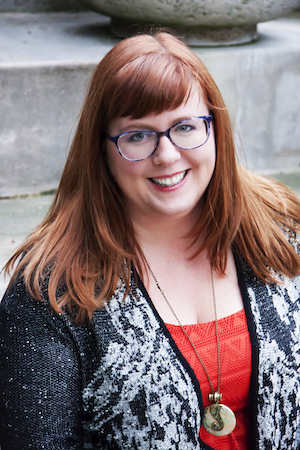
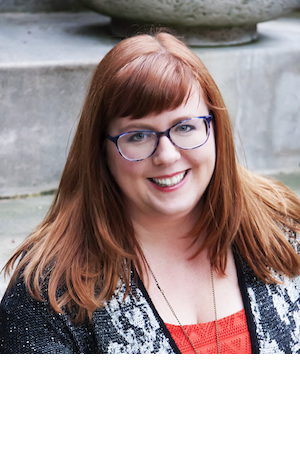
adjusted some styling features on index pages.

Changed region(s): [[0.0, 0.7778, 1.0, 1.0]]

diff --git a/app/assets/stylesheets/application.css b/app/assets/stylesheets/application.css
@@ -124,22 +124,22 @@ h2 {
 }
 
 .format-about-me {
-  height: 300px;
-  width: 100%;
+  /*height: 300px;*/
+  /*width: 100%;*/
 }
 
 .format-about-me img {
   border-radius: 50%;
   float: left;
-  width: 25%;
+  width: 20%;
   padding-left: 5%;
 }
-
+/*
 .format-about-me p {
   float: right;
   width: 60%;
   padding: 0 5% 0 5%;
-}
+}*/
 
 /*section article {
   display: inline-block;
